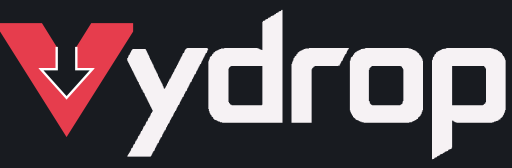
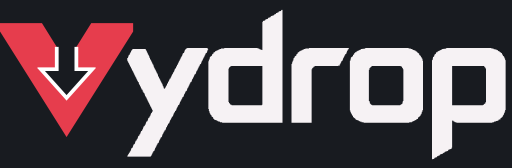
Widen the open white arrow outline across Vydrop branding

Changed region(s): [[0.0625, 0.2679, 0.1875, 0.5952]]

diff --git a/browser/common/popup.html b/browser/common/popup.html
@@ -1,3 +1,3 @@
 <!doctype html>
 <html lang="en"><head><meta charset="utf-8"><meta name="viewport" content="width=device-width, initial-scale=1"><title>Vydrop</title><link rel="stylesheet" href="popup.css"></head>
-<body><header><svg xmlns="http://www.w3.org/2000/svg" width="128" height="42" class="brand-wordmark" viewBox="0 0 128 42" role="img" aria-label="Vydrop"><title>Vydrop</title><desc>Approved integrated wordmark: a symmetrical sharp red V with a white-outlined download arrow, followed by matching geometric lettering.</desc><g transform="matrix(0.13250517598343686 0 0 0.13250517598343686 0 2.1842650103519645)"><path fill="#E63D4D" fill-rule="evenodd" d="M0,27L79,27 107,72 107,114 77,114 125.5,168 174,114 144,114 144,72 172,27 251,27 251,43 125.5,242 0,43Z"/><path fill="none" stroke="#FFFFFF" stroke-width="4.5" stroke-linejoin="miter" stroke-miterlimit="2" d="M107,72L107,114 77,114 125.5,168 174,114 144,114 144,72"/><path fill="currentColor" fill-rule="evenodd" d="M531,2L533,2 533,215 419,215 419,214 415,214 415,213 412,213 412,212 410,212 410,211 404,209 404,208 402,207 402,205 399,203 399,201 397,200 397,198 396,198 396,196 395,196 395,193 394,193 394,189 393,189 393,99 394,99 394,96 395,96 396,91 400,88 400,86 401,86 401,85 403,84 403,82 405,82 406,80 408,80 408,79 410,79 410,78 412,78 412,77 414,77 414,76 417,76 417,75 423,75 423,74 486,74 486,75 489,75 489,76 495,78 495,25 496,25 496,23 500,22 501,20 505,19 506,17 510,16 511,14 517,12 518,10 520,10 521,8 523,8 523,7 525,7 526,5 530,4Z M353,74L391,74 393,77 392,77 390,83 388,84 388,86 387,86 387,88 386,88 386,90 385,90 385,92 384,92 384,94 383,94 383,96 382,96 382,98 381,98 379,104 377,105 377,107 376,107 376,109 375,109 375,111 374,111 374,113 373,113 373,115 372,115 372,117 371,117 369,123 367,124 367,126 366,126 366,128 365,128 365,130 364,130 364,132 363,132 361,138 359,139 359,141 358,141 358,143 357,143 357,145 356,145 356,147 355,147 355,149 354,149 352,155 350,156 350,158 349,158 349,160 348,160 346,166 344,167 344,169 343,169 343,171 342,171 342,173 341,173 341,175 340,175 338,181 336,182 336,184 335,184 335,186 334,186 332,192 330,193 330,195 329,195 329,197 328,197 326,203 324,204 324,206 323,206 323,208 322,208 322,210 321,210 319,216 317,217 317,219 316,219 316,221 315,221 315,223 314,223 312,229 310,230 310,232 309,232 309,234 308,234 308,236 307,236 305,242 303,243 303,245 302,245 302,247 301,247 299,253 297,254 297,256 296,256 296,258 295,258 295,260 294,260 294,262 293,262 291,268 289,269 289,271 288,271 288,273 287,273 287,275 286,275 286,277 285,277 284,279 240,279 241,276 242,276 242,274 243,274 243,272 245,271 245,269 246,269 248,263 250,262 252,256 254,255 256,249 258,248 258,246 259,246 261,240 263,239 263,237 264,237 266,231 268,230 268,228 269,228 271,222 273,221 273,219 274,219 276,213 278,212 280,206 282,205 282,203 283,203 285,197 286,197 287,194 288,194 288,191 287,191 287,189 286,189 286,187 285,187 285,185 284,185 284,183 283,183 283,181 282,181 282,179 281,179 281,177 280,177 280,175 279,175 279,173 278,173 278,171 277,171 277,169 276,169 276,167 275,167 275,165 274,165 272,159 271,159 270,156 269,156 269,153 267,152 267,150 266,150 266,148 265,148 265,146 264,146 264,144 263,144 263,142 262,142 262,139 260,138 260,136 259,136 259,134 258,134 258,132 257,132 257,130 256,130 256,128 255,128 255,126 254,126 254,124 253,124 253,122 252,122 252,120 251,120 251,118 250,118 250,116 249,116 249,114 248,114 248,112 247,112 247,110 246,110 246,108 245,108 245,106 244,106 244,104 243,104 243,102 242,102 242,100 241,100 241,98 240,98 240,93 241,93 243,87 245,86 245,84 246,84 246,82 247,82 247,80 248,80 248,78 249,78 250,76 275,76 275,78 276,78 276,80 277,80 277,82 278,82 278,84 279,84 279,86 280,86 280,88 281,88 281,90 282,90 282,93 283,93 283,95 284,95 284,97 285,97 285,99 286,99 286,101 287,101 287,103 288,103 288,105 289,105 289,107 290,107 290,110 291,110 291,112 292,112 292,114 293,114 293,116 294,116 294,118 295,118 295,120 296,120 296,122 297,122 297,124 298,124 298,127 299,127 299,129 300,129 300,131 301,131 301,133 302,133 302,135 303,135 303,137 304,137 304,139 305,139 305,141 306,141 306,143 307,143 307,146 308,146 309,150 311,151 312,148 313,148 313,146 314,146 314,144 315,144 315,142 316,142 316,140 317,140 317,138 318,138 318,136 319,136 319,134 320,134 320,132 322,131 322,129 323,129 323,127 324,127 324,125 325,125 325,123 326,123 326,121 327,121 327,119 328,119 330,113 332,112 332,110 333,110 333,108 334,108 334,106 335,106 335,104 336,104 336,102 337,102 337,100 338,100 338,98 339,98 339,96 340,96 340,94 341,94 341,92 342,92 342,90 343,90 345,84 347,83 349,77 350,77 351,75 353,75Z M583,74L658,74 658,76 656,77 656,79 655,79 653,85 651,86 651,88 650,88 650,90 649,90 649,92 648,92 646,98 644,99 644,101 643,101 643,103 642,103 642,105 641,105 640,108 639,108 639,107 638,107 638,108 594,108 594,109 592,109 592,110 589,112 589,114 588,114 588,215 550,215 550,104 551,104 551,101 552,101 552,98 553,98 554,93 555,93 556,90 559,88 559,86 561,85 562,82 564,82 565,80 567,80 567,79 569,79 569,78 571,78 571,77 573,77 573,76 576,76 576,75 583,75Z M689,74L771,74 771,75 775,75 775,76 778,76 778,77 784,79 784,80 787,81 787,82 791,85 791,87 794,89 794,91 795,91 796,94 797,94 797,98 798,98 798,191 797,191 797,194 796,194 795,199 794,199 793,202 789,205 788,208 786,208 785,210 783,210 783,211 781,211 781,212 779,212 779,213 777,213 777,214 772,214 772,215 686,215 686,214 682,214 682,213 679,213 679,212 677,212 677,211 671,209 671,208 666,204 666,202 664,201 664,199 663,199 663,197 662,197 662,195 661,195 661,192 660,192 660,98 661,98 662,92 666,89 666,87 668,86 668,84 669,84 670,82 672,82 673,80 675,80 675,79 677,79 677,78 679,78 679,77 681,77 681,76 689,75Z M842,74L927,74 927,75 931,75 931,76 937,77 937,78 939,78 940,80 942,80 943,82 945,82 945,83 947,84 947,86 948,86 949,89 951,90 951,92 952,92 952,94 953,94 953,97 954,97 954,191 953,191 953,194 952,194 952,197 951,197 950,201 949,201 948,204 944,207 944,209 941,209 940,211 935,212 935,213 932,213 932,214 929,214 929,215 861,215 861,214 858,214 858,213 856,213 855,211 853,211 853,262 852,262 852,264 846,266 845,268 839,270 838,272 836,272 836,273 830,275 829,277 827,277 827,278 825,278 824,280 820,281 819,283 815,284 815,97 816,97 817,91 819,90 819,88 820,88 820,86 822,85 823,82 825,82 826,80 828,80 828,79 830,79 830,78 832,78 832,77 834,77 834,76 842,75Z M696,174L697,174 698,179 699,179 700,181 702,181 702,182 755,182 755,181 757,181 757,180 759,179 760,174 761,174 761,114 760,114 760,112 759,112 758,109 756,109 756,108 701,108 701,109 697,112 697,115 696,115Z M431,176L432,176 432,178 433,178 435,181 437,181 437,182 494,182 494,181 495,181 495,108 436,108 436,109 434,109 434,110 432,111 432,113 431,113Z M916,176L917,176 917,113 916,113 916,111 915,111 913,108 853,108 853,182 911,182 911,181 913,181 913,180 916,178Z"/></g></svg></header><p>Open the video you’re watching in Vydrop, then choose what to download.</p><button id="send" type="button">Open in Vydrop</button><p id="status" role="status" aria-live="polite"></p><script src="connection.js"></script><script src="video-detection.js"></script><script src="popup.js"></script></body></html>
+<body><header><svg xmlns="http://www.w3.org/2000/svg" width="128" height="42" class="brand-wordmark" viewBox="0 0 128 42" role="img" aria-label="Vydrop"><title>Vydrop</title><desc>Approved integrated wordmark: a symmetrical sharp red V with a white-outlined download arrow, followed by matching geometric lettering.</desc><g transform="matrix(0.13250517598343686 0 0 0.13250517598343686 0 2.1842650103519645)"><path fill="#E63D4D" fill-rule="evenodd" d="M0,27L79,27 107,72 107,114 77,114 125.5,168 174,114 144,114 144,72 172,27 251,27 251,43 125.5,242 0,43Z"/><path fill="none" stroke="#FFFFFF" stroke-width="7" stroke-linejoin="miter" stroke-miterlimit="2" d="M107,72L107,114 77,114 125.5,168 174,114 144,114 144,72"/><path fill="currentColor" fill-rule="evenodd" d="M531,2L533,2 533,215 419,215 419,214 415,214 415,213 412,213 412,212 410,212 410,211 404,209 404,208 402,207 402,205 399,203 399,201 397,200 397,198 396,198 396,196 395,196 395,193 394,193 394,189 393,189 393,99 394,99 394,96 395,96 396,91 400,88 400,86 401,86 401,85 403,84 403,82 405,82 406,80 408,80 408,79 410,79 410,78 412,78 412,77 414,77 414,76 417,76 417,75 423,75 423,74 486,74 486,75 489,75 489,76 495,78 495,25 496,25 496,23 500,22 501,20 505,19 506,17 510,16 511,14 517,12 518,10 520,10 521,8 523,8 523,7 525,7 526,5 530,4Z M353,74L391,74 393,77 392,77 390,83 388,84 388,86 387,86 387,88 386,88 386,90 385,90 385,92 384,92 384,94 383,94 383,96 382,96 382,98 381,98 379,104 377,105 377,107 376,107 376,109 375,109 375,111 374,111 374,113 373,113 373,115 372,115 372,117 371,117 369,123 367,124 367,126 366,126 366,128 365,128 365,130 364,130 364,132 363,132 361,138 359,139 359,141 358,141 358,143 357,143 357,145 356,145 356,147 355,147 355,149 354,149 352,155 350,156 350,158 349,158 349,160 348,160 346,166 344,167 344,169 343,169 343,171 342,171 342,173 341,173 341,175 340,175 338,181 336,182 336,184 335,184 335,186 334,186 332,192 330,193 330,195 329,195 329,197 328,197 326,203 324,204 324,206 323,206 323,208 322,208 322,210 321,210 319,216 317,217 317,219 316,219 316,221 315,221 315,223 314,223 312,229 310,230 310,232 309,232 309,234 308,234 308,236 307,236 305,242 303,243 303,245 302,245 302,247 301,247 299,253 297,254 297,256 296,256 296,258 295,258 295,260 294,260 294,262 293,262 291,268 289,269 289,271 288,271 288,273 287,273 287,275 286,275 286,277 285,277 284,279 240,279 241,276 242,276 242,274 243,274 243,272 245,271 245,269 246,269 248,263 250,262 252,256 254,255 256,249 258,248 258,246 259,246 261,240 263,239 263,237 264,237 266,231 268,230 268,228 269,228 271,222 273,221 273,219 274,219 276,213 278,212 280,206 282,205 282,203 283,203 285,197 286,197 287,194 288,194 288,191 287,191 287,189 286,189 286,187 285,187 285,185 284,185 284,183 283,183 283,181 282,181 282,179 281,179 281,177 280,177 280,175 279,175 279,173 278,173 278,171 277,171 277,169 276,169 276,167 275,167 275,165 274,165 272,159 271,159 270,156 269,156 269,153 267,152 267,150 266,150 266,148 265,148 265,146 264,146 264,144 263,144 263,142 262,142 262,139 260,138 260,136 259,136 259,134 258,134 258,132 257,132 257,130 256,130 256,128 255,128 255,126 254,126 254,124 253,124 253,122 252,122 252,120 251,120 251,118 250,118 250,116 249,116 249,114 248,114 248,112 247,112 247,110 246,110 246,108 245,108 245,106 244,106 244,104 243,104 243,102 242,102 242,100 241,100 241,98 240,98 240,93 241,93 243,87 245,86 245,84 246,84 246,82 247,82 247,80 248,80 248,78 249,78 250,76 275,76 275,78 276,78 276,80 277,80 277,82 278,82 278,84 279,84 279,86 280,86 280,88 281,88 281,90 282,90 282,93 283,93 283,95 284,95 284,97 285,97 285,99 286,99 286,101 287,101 287,103 288,103 288,105 289,105 289,107 290,107 290,110 291,110 291,112 292,112 292,114 293,114 293,116 294,116 294,118 295,118 295,120 296,120 296,122 297,122 297,124 298,124 298,127 299,127 299,129 300,129 300,131 301,131 301,133 302,133 302,135 303,135 303,137 304,137 304,139 305,139 305,141 306,141 306,143 307,143 307,146 308,146 309,150 311,151 312,148 313,148 313,146 314,146 314,144 315,144 315,142 316,142 316,140 317,140 317,138 318,138 318,136 319,136 319,134 320,134 320,132 322,131 322,129 323,129 323,127 324,127 324,125 325,125 325,123 326,123 326,121 327,121 327,119 328,119 330,113 332,112 332,110 333,110 333,108 334,108 334,106 335,106 335,104 336,104 336,102 337,102 337,100 338,100 338,98 339,98 339,96 340,96 340,94 341,94 341,92 342,92 342,90 343,90 345,84 347,83 349,77 350,77 351,75 353,75Z M583,74L658,74 658,76 656,77 656,79 655,79 653,85 651,86 651,88 650,88 650,90 649,90 649,92 648,92 646,98 644,99 644,101 643,101 643,103 642,103 642,105 641,105 640,108 639,108 639,107 638,107 638,108 594,108 594,109 592,109 592,110 589,112 589,114 588,114 588,215 550,215 550,104 551,104 551,101 552,101 552,98 553,98 554,93 555,93 556,90 559,88 559,86 561,85 562,82 564,82 565,80 567,80 567,79 569,79 569,78 571,78 571,77 573,77 573,76 576,76 576,75 583,75Z M689,74L771,74 771,75 775,75 775,76 778,76 778,77 784,79 784,80 787,81 787,82 791,85 791,87 794,89 794,91 795,91 796,94 797,94 797,98 798,98 798,191 797,191 797,194 796,194 795,199 794,199 793,202 789,205 788,208 786,208 785,210 783,210 783,211 781,211 781,212 779,212 779,213 777,213 777,214 772,214 772,215 686,215 686,214 682,214 682,213 679,213 679,212 677,212 677,211 671,209 671,208 666,204 666,202 664,201 664,199 663,199 663,197 662,197 662,195 661,195 661,192 660,192 660,98 661,98 662,92 666,89 666,87 668,86 668,84 669,84 670,82 672,82 673,80 675,80 675,79 677,79 677,78 679,78 679,77 681,77 681,76 689,75Z M842,74L927,74 927,75 931,75 931,76 937,77 937,78 939,78 940,80 942,80 943,82 945,82 945,83 947,84 947,86 948,86 949,89 951,90 951,92 952,92 952,94 953,94 953,97 954,97 954,191 953,191 953,194 952,194 952,197 951,197 950,201 949,201 948,204 944,207 944,209 941,209 940,211 935,212 935,213 932,213 932,214 929,214 929,215 861,215 861,214 858,214 858,213 856,213 855,211 853,211 853,262 852,262 852,264 846,266 845,268 839,270 838,272 836,272 836,273 830,275 829,277 827,277 827,278 825,278 824,280 820,281 819,283 815,284 815,97 816,97 817,91 819,90 819,88 820,88 820,86 822,85 823,82 825,82 826,80 828,80 828,79 830,79 830,78 832,78 832,77 834,77 834,76 842,75Z M696,174L697,174 698,179 699,179 700,181 702,181 702,182 755,182 755,181 757,181 757,180 759,179 760,174 761,174 761,114 760,114 760,112 759,112 758,109 756,109 756,108 701,108 701,109 697,112 697,115 696,115Z M431,176L432,176 432,178 433,178 435,181 437,181 437,182 494,182 494,181 495,181 495,108 436,108 436,109 434,109 434,110 432,111 432,113 431,113Z M916,176L917,176 917,113 916,113 916,111 915,111 913,108 853,108 853,182 911,182 911,181 913,181 913,180 916,178Z"/></g></svg></header><p>Open the video you’re watching in Vydrop, then choose what to download.</p><button id="send" type="button">Open in Vydrop</button><p id="status" role="status" aria-live="polite"></p><script src="connection.js"></script><script src="video-detection.js"></script><script src="popup.js"></script></body></html>

diff --git a/src/Downloader.Desktop/Views/Components/AppHeaderView.xaml b/src/Downloader.Desktop/Views/Components/AppHeaderView.xaml
@@ -36,7 +36,7 @@
        <Path x:Name="BrandInitial" Data="{StaticResource BrandInitialGeometry}" Fill="{StaticResource BrandFill}">
         <Path.RenderTransform><ScaleTransform x:Name="LogoScale" CenterX="125.5" CenterY="134.5"/></Path.RenderTransform>
        </Path>
-       <Path Data="{StaticResource BrandArrowGeometry}" Stroke="White" StrokeThickness="4.5" StrokeLineJoin="Miter" StrokeMiterLimit="2" RenderTransform="{Binding RenderTransform,ElementName=BrandInitial}" IsHitTestVisible="False"/>
+       <Path Data="{StaticResource BrandArrowGeometry}" Stroke="White" StrokeThickness="7" StrokeLineJoin="Miter" StrokeMiterLimit="2" RenderTransform="{Binding RenderTransform,ElementName=BrandInitial}" IsHitTestVisible="False"/>
        <Path x:Name="BrandLetters" Data="{StaticResource BrandLettersGeometry}" Fill="{DynamicResource Ink}"/>
        <Path x:Name="LogoLight" Data="{StaticResource BrandInitialGeometry}" RenderTransform="{Binding RenderTransform,ElementName=BrandInitial}" IsHitTestVisible="False" Opacity="0">
        <Path.Fill><LinearGradientBrush StartPoint="0,0" EndPoint="1,0.4">

diff --git a/browser/common/video-overlay.js b/browser/common/video-overlay.js
@@ -56,7 +56,7 @@
   const arrow = document.createElementNS("http://www.w3.org/2000/svg", "path");
   arrow.setAttribute("fill", "none");
   arrow.setAttribute("stroke", "#FFFFFF");
-  arrow.setAttribute("stroke-width", "1.004");
+  arrow.setAttribute("stroke-width", "1.562");
   arrow.setAttribute("stroke-linejoin", "miter");
   arrow.setAttribute("stroke-miterlimit", "2");
   arrow.setAttribute("d", "M27.873,18.056L27.873,27.426 21.179,27.426 32,39.474 42.821,27.426 36.127,27.426 36.127,18.056");

diff --git a/DESIGN.md b/DESIGN.md
@@ -203,7 +203,7 @@ The hierarchy is compact, with semibold task headings and ordinary body copy. Bo
 - **Download-label:** the main action's distinct, slightly larger label.
 - **Queue-heading / queue-body:** the queue's local compact density; do not shrink other screens to match it.
 
-**The Lettering Rule.** Use the approved integrated angular wordmark: the symmetrical red V/down-arrow emblem is the first letter, followed by geometric ydrop in theme Ink. There is no separate symbol before the word. The V has equal mirrored arms, a centered negative-space arrow and a sharp lower point. The arrow inside the V has a thin white outline that is open at the top, with no horizontal cap. Its wordmark stroke is 4.5 source units and the V-only icon uses the proportional 1.004-unit stroke. Canonical contours are in assets/brand/wordmark.geometry.json, with the selected reference in assets/brand/approved-reference.png; scripts/draw-brand-lettering.ps1 applies them to Symbols.xaml. The 966 × 284-unit source fits a 128 × 38-DIP Viewbox inside the existing 42-DIP fixed-height button. Preserve physical LTR order in Arabic and the overlay focus ring. Light mode uses charcoal ydrop; dark mode uses light ydrop; BrandFill stays red. Taskbar, window, standalone app and extension icons contain only the V, from BrandMarkGeometry on its 64-unit canvas. Retain Inter for interface text and its existing license.
+**The Lettering Rule.** Use the approved integrated angular wordmark: the symmetrical red V/down-arrow emblem is the first letter, followed by geometric ydrop in theme Ink. There is no separate symbol before the word. The V has equal mirrored arms, a centered negative-space arrow and a sharp lower point. The arrow inside the V has a white outline that is open at the top, with no horizontal cap. Its wordmark stroke is 7 source units and the V-only icon uses the proportional 1.562-unit stroke. Canonical contours are in assets/brand/wordmark.geometry.json, with the selected reference in assets/brand/approved-reference.png; scripts/draw-brand-lettering.ps1 applies them to Symbols.xaml. The 966 × 284-unit source fits a 128 × 38-DIP Viewbox inside the existing 42-DIP fixed-height button. Preserve physical LTR order in Arabic and the overlay focus ring. Light mode uses charcoal ydrop; dark mode uses light ydrop; BrandFill stays red. Taskbar, window, standalone app and extension icons contain only the V, from BrandMarkGeometry on its 64-unit canvas. Retain Inter for interface text and its existing license.
 
 ## Layout
 
@@ -223,7 +223,7 @@ Feedback changes opacity, transforms or a clipped theme snapshot rather than lay
 
 Controls, menus, notices and thumbnail clipping share gently rounded eight-DIP corners. Inner hover layers use seven-DIP corners to sit inside the one-DIP face border; duration and history badges retain their smaller local shapes. Line icons use rounded caps and joins, generally 18-DIP boxes with a 1.5-DIP stroke. Header icons keep their existing larger measurements.
 
-Use the approved integrated angular wordmark: the symmetrical red V/down-arrow emblem is the first letter, followed by geometric ydrop in theme Ink. There is no separate symbol before the word. The V has equal mirrored arms, a centered negative-space arrow and a sharp lower point. The arrow inside the V has a thin white outline that is open at the top, with no horizontal cap. Its wordmark stroke is 4.5 source units and the V-only icon uses the proportional 1.004-unit stroke. Canonical contours are in assets/brand/wordmark.geometry.json, with the selected reference in assets/brand/approved-reference.png; scripts/draw-brand-lettering.ps1 applies them to Symbols.xaml. The 966 × 284-unit source fits a 128 × 38-DIP Viewbox inside the existing 42-DIP fixed-height button. Preserve physical LTR order in Arabic and the overlay focus ring. Light mode uses charcoal ydrop; dark mode uses light ydrop; BrandFill stays red. Taskbar, window, standalone app and extension icons contain only the V, from BrandMarkGeometry on its 64-unit canvas. Retain Inter for interface text and its existing license. Transparent light/dark PNG and SVG exports, solid white/dark previews and seven native icon sizes are generated by scripts/render-brand.ps1. The companion popup uses the same wordmark contours; its video tab uses the V icon.
+Use the approved integrated angular wordmark: the symmetrical red V/down-arrow emblem is the first letter, followed by geometric ydrop in theme Ink. There is no separate symbol before the word. The V has equal mirrored arms, a centered negative-space arrow and a sharp lower point. The arrow inside the V has a white outline that is open at the top, with no horizontal cap. Its wordmark stroke is 7 source units and the V-only icon uses the proportional 1.562-unit stroke. Canonical contours are in assets/brand/wordmark.geometry.json, with the selected reference in assets/brand/approved-reference.png; scripts/draw-brand-lettering.ps1 applies them to Symbols.xaml. The 966 × 284-unit source fits a 128 × 38-DIP Viewbox inside the existing 42-DIP fixed-height button. Preserve physical LTR order in Arabic and the overlay focus ring. Light mode uses charcoal ydrop; dark mode uses light ydrop; BrandFill stays red. Taskbar, window, standalone app and extension icons contain only the V, from BrandMarkGeometry on its 64-unit canvas. Retain Inter for interface text and its existing license. Transparent light/dark PNG and SVG exports, solid white/dark previews and seven native icon sizes are generated by scripts/render-brand.ps1. The companion popup uses the same wordmark contours; its video tab uses the V icon.
 
 ## Components
 

diff --git a/docs/vydrop-branding-validation.md b/docs/vydrop-branding-validation.md
@@ -27,7 +27,7 @@ The new executable is `Vydrop.exe`. Stable preferences, history and media-tool s
 
 Screenshots and logo rasters carry embedded origin metadata; [capture notes](images/capture-notes.json) distinguish current Vydrop renders, historical ViFree 4.1.0 native screenshots and labeled setup illustrations. No pointer is shown in the published image assets.
 
[2 lines of base64/hex data omitted]
 
[1 lines of base64/hex data omitted]
 
@@ -35,8 +35,10 @@ Current selected angular wordmark: approved reference faithfully converted to sh
 
 Selected-logo validation: 54 browser source checks passed; the app and updated WPF test project compile with zero errors; package artifact validation passed. Existing icon assertions now cover the V-only silhouette and negative-space arrow. Native WPF interaction suites were not rerun, honoring the user request for screenshot-based visual checking without computer controls. Both cursor-free theme previews were inspected from the offline vector exports.
 
-GitHub documentation refinement: The arrow inside the V has a thin white outline that is open at the top, with no horizontal cap. Its wordmark stroke is 4.5 source units and the V-only icon uses the proportional 1.004-unit stroke. README opens with labelled current-theme illustrations; separate Chrome, Edge and Firefox setup images accompany the guide, with temporary Firefox installation clearly documented. Official browser sources were checked; GitHub latest-release API confirms v4.1.0, so public links remain on that published package while 4.2 source branding is presented separately. No new native screenshots are claimed.
+GitHub documentation refinement: The arrow inside the V has a white outline that is open at the top, with no horizontal cap. Its wordmark stroke is 7 source units and the V-only icon uses the proportional 1.562-unit stroke. README opens with labelled current-theme illustrations; separate Chrome, Edge and Firefox setup images accompany the guide, with temporary Firefox installation clearly documented. Official browser sources were checked; GitHub latest-release API confirms v4.1.0, so public links remain on that published package while 4.2 source branding is presented separately. No new native screenshots are claimed.
 
 Approved GitHub update: final open-top thin-outline source passed 54 browser checks, local-reference/image validation, portable app build and package artifact validation. The public v4.1.0 ZIP returned HTTP 200. Both theme exports and all three browser setup illustrations received a bounded offline visual review. New native screenshots and full local WPF interaction reruns are not claimed.
 
 GitHub verification follow-up: the initial main-branch run passed the core/infrastructure suites and reached the motion checks, where an obsolete test cast the fixed BrandArtwork container to ScaleTransform. The test now reads the actual animated BrandInitial transform and checks that both axes settle to 1. The application artwork and animation are unchanged. Local verification compiles the test project without opening or controlling the user's desktop; the full native run executes on the GitHub Windows runner.
+
+Wider outline refinement: the user's follow-up increases the white arrow stroke from 4.5 to 7 source units (1.004 to 1.562 in the 64-unit icon), retaining the open top, sharp symmetric V and existing wordmark spacing. Both theme exports were reviewed together; browser checks passed 54/54, the changed companion design scan returned no findings, and the rebuilt app ZIP and documentation references passed validation.

diff --git a/.impeccable/surfaces/src-downloader-desktop-views-mainwindow-xaml.md b/.impeccable/surfaces/src-downloader-desktop-views-mainwindow-xaml.md
@@ -9,7 +9,7 @@ related_targets: ["src/Downloader.Desktop/Views/QueueWindow.xaml", "src/Download
 
 ## Vydrop branding authority — 2026-10-16
 
-Use the approved integrated angular wordmark: the symmetrical red V/down-arrow emblem is the first letter, followed by geometric ydrop in theme Ink. There is no separate symbol before the word. The V has equal mirrored arms, a centered negative-space arrow and a sharp lower point. Canonical contours are in assets/brand/wordmark.geometry.json, with the selected reference in assets/brand/approved-reference.png; scripts/draw-brand-lettering.ps1 applies them to Symbols.xaml. The 966 × 284-unit source fits a 128 × 38-DIP Viewbox inside the existing 42-DIP fixed-height button. Preserve physical LTR order in Arabic and the overlay focus ring. Light mode uses charcoal ydrop; dark mode uses light ydrop; BrandFill stays red. Taskbar, window, standalone app and extension icons contain only the V, from BrandMarkGeometry on its 64-unit canvas. Retain Inter for interface text and its existing license. The arrow inside the V has a thin white outline that is open at the top, with no horizontal cap. Its wordmark stroke is 4.5 source units and the V-only icon uses the proportional 1.004-unit stroke. The user explicitly selected this sharp integrated V concept and requested both dark/white variants plus V-only taskbar icons. Existing layout, typography, workflows, preferences and browser permissions remain authoritative.
+Use the approved integrated angular wordmark: the symmetrical red V/down-arrow emblem is the first letter, followed by geometric ydrop in theme Ink. There is no separate symbol before the word. The V has equal mirrored arms, a centered negative-space arrow and a sharp lower point. Canonical contours are in assets/brand/wordmark.geometry.json, with the selected reference in assets/brand/approved-reference.png; scripts/draw-brand-lettering.ps1 applies them to Symbols.xaml. The 966 × 284-unit source fits a 128 × 38-DIP Viewbox inside the existing 42-DIP fixed-height button. Preserve physical LTR order in Arabic and the overlay focus ring. Light mode uses charcoal ydrop; dark mode uses light ydrop; BrandFill stays red. Taskbar, window, standalone app and extension icons contain only the V, from BrandMarkGeometry on its 64-unit canvas. Retain Inter for interface text and its existing license. The arrow inside the V has a white outline that is open at the top, with no horizontal cap. Its wordmark stroke is 7 source units and the V-only icon uses the proportional 1.562-unit stroke. The user explicitly selected this sharp integrated V concept and requested both dark/white variants plus V-only taskbar icons. Existing layout, typography, workflows, preferences and browser permissions remain authoritative.
 
 THESIS: A recognizable red download mark connects the desktop app and the exact video sent by its companion.
 
